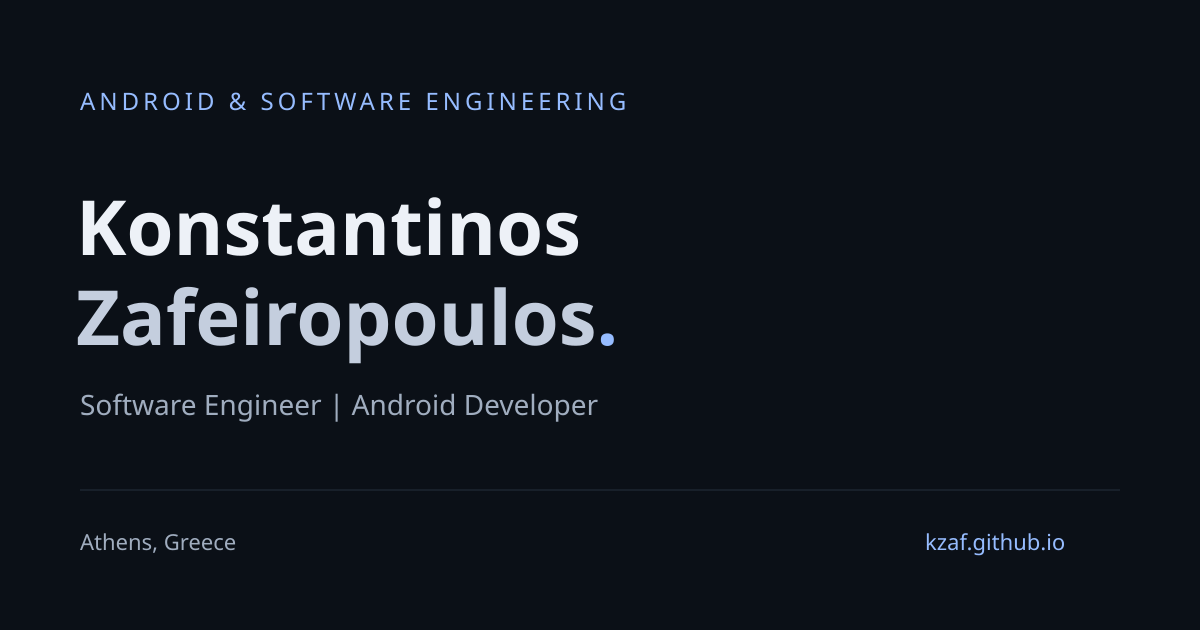
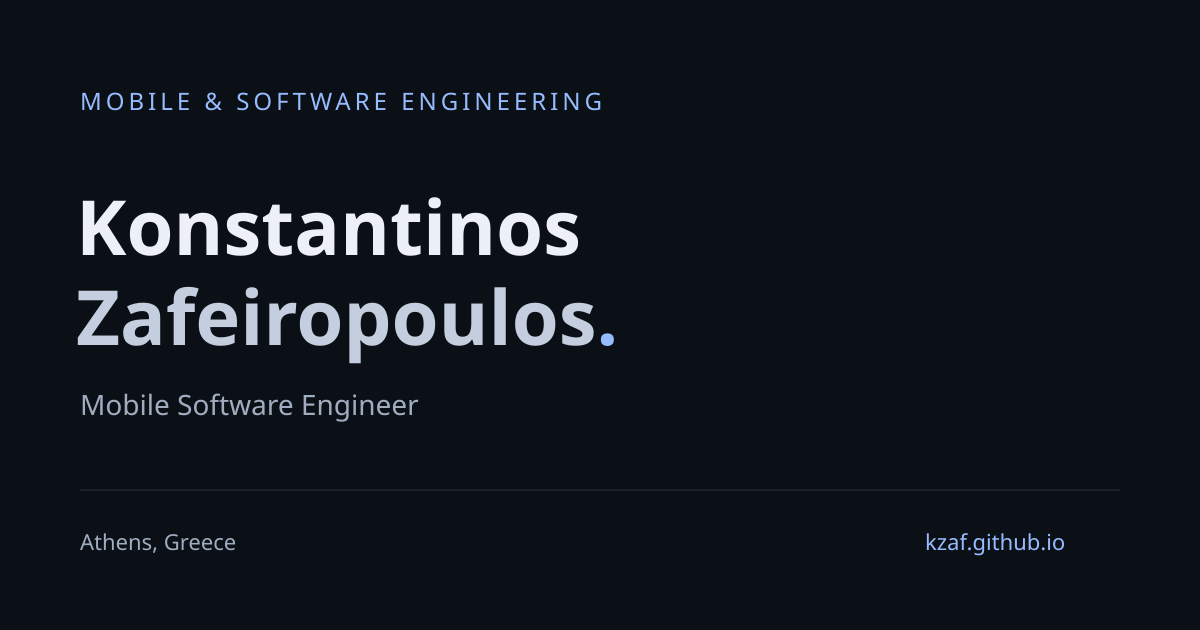
Emphasize mobile software engineering and add verified work locations

Changed region(s): [[0.0617, 0.1206, 0.5242, 0.181], [0.0617, 0.6333, 0.4933, 0.6635]]

diff --git a/index.html b/index.html
@@ -4,20 +4,20 @@
   <meta charset="utf-8">
   <meta name="viewport" content="width=device-width, initial-scale=1">
   <meta name="color-scheme" content="dark">
-  <title>Konstantinos Zafeiropoulos — Software Engineer & Android Developer</title>
-  <meta name="description" content="Software engineer and Android developer in Athens, Greece. Android Engineer at Alpha Bank. Explore Kotlin, Android and cross-platform projects.">
+  <title>Konstantinos Zafeiropoulos — Mobile Software Engineer</title>
+  <meta name="description" content="Mobile software engineer in Athens, Greece, focused on native and cross-platform applications. Android Engineer at Alpha Bank. Explore public mobile projects.">
   <link rel="canonical" href="https://kzaf.github.io/">
   <meta property="og:type" content="website">
-  <meta property="og:title" content="Konstantinos Zafeiropoulos — Software Engineer">
-  <meta property="og:description" content="Android engineering, thoughtful architecture, and software built with care. Based in Athens, Greece.">
+  <meta property="og:title" content="Konstantinos Zafeiropoulos — Mobile Software Engineer">
+  <meta property="og:description" content="Mobile experiences, thoughtful architecture, and native and cross-platform software built with care. Based in Athens, Greece.">
   <meta property="og:url" content="https://kzaf.github.io/">
   <meta property="og:image" content="https://kzaf.github.io/assets/social-card.png">
   <meta property="og:image:width" content="1200">
   <meta property="og:image:height" content="630">
-  <meta property="og:image:alt" content="Konstantinos Zafeiropoulos — Software Engineer and Android Developer, Athens, Greece">
+  <meta property="og:image:alt" content="Konstantinos Zafeiropoulos — Mobile Software Engineer, Athens, Greece">
   <meta name="twitter:card" content="summary_large_image">
-  <meta name="twitter:title" content="Konstantinos Zafeiropoulos — Software Engineer">
-  <meta name="twitter:description" content="Android engineering and cross-platform development. Athens, Greece.">
+  <meta name="twitter:title" content="Konstantinos Zafeiropoulos — Mobile Software Engineer">
+  <meta name="twitter:description" content="Native and cross-platform mobile engineering. Athens, Greece.">
   <meta name="twitter:image" content="https://kzaf.github.io/assets/social-card.png">
   <meta name="theme-color" content="#0b1017">
   <link rel="icon" href="assets/favicon.svg" type="image/svg+xml">
@@ -28,7 +28,7 @@
   <a class="skip-link" href="#main">Skip to content</a>
   <header class="site-header">
     <div class="nav-wrap">
-      <a class="brand" href="#home" aria-label="Konstantinos Zafeiropoulos, home">kz<span>.</span><span class="brand-label">SOFTWARE ENGINEER</span></a>
+      <a class="brand" href="#home" aria-label="Konstantinos Zafeiropoulos, home">kz<span>.</span><span class="brand-label">MOBILE ENGINEER</span></a>
       <button class="menu-toggle" type="button" aria-expanded="false" aria-controls="navigation" hidden>Menu <span aria-hidden="true">☰</span></button>
       <nav id="navigation" aria-label="Main navigation">
         <a href="#about">About</a><a href="#experience">Experience</a><a href="#projects">Projects</a><a href="#stack">Stack</a><a class="nav-contact" href="#contact">Let’s talk <span aria-hidden="true">↗</span></a>
@@ -38,36 +38,36 @@
   <main id="main">
     <section id="home" class="hero container" aria-labelledby="hero-title">
       <div class="hero-copy">
-        <p class="eyebrow"><span class="status-dot" aria-hidden="true"></span> ATHENS, GREECE <span class="separator">/</span> ANDROID & SOFTWARE</p>
+        <p class="eyebrow"><span class="status-dot" aria-hidden="true"></span> ATHENS, GREECE <span class="separator">/</span> MOBILE & SOFTWARE</p>
         <h1 id="hero-title">Konstantinos<br><span>Zafeiropoulos<span class="accent">.</span></span></h1>
-        <p class="hero-role">Software Engineer <span aria-hidden="true">/</span> Android Developer</p>
-        <p class="hero-intro">Building thoughtful mobile experiences.<br>From native Android to cross-platform software, I care about clean architecture and the details that make an app feel right.</p>
+        <p class="hero-role">Mobile Software Engineer</p>
+        <p class="hero-intro">Building thoughtful mobile experiences.<br>I build native and cross-platform apps with clean architecture, shared code where it makes sense, and care for the details that make mobile software feel right.</p>
         <div class="hero-actions"><a class="button primary" href="#projects">View projects <span aria-hidden="true">↘</span></a><a class="button secondary" href="#contact">Contact me <span aria-hidden="true">↗</span></a></div>
         <div class="social-links"><a href="https://github.com/kzaf">GitHub <span aria-hidden="true">↗</span></a><a href="https://www.linkedin.com/in/kzafeiropoulos/">LinkedIn <span aria-hidden="true">↗</span></a><a href="mailto:k.a.zafeiropoulos@gmail.com">Email <span aria-hidden="true">↗</span></a></div>
       </div>
-      <div class="engineering-card" aria-label="Engineering focus: Kotlin, Android, architecture and cross-platform development">
+      <div class="engineering-card" aria-label="Engineering focus: mobile experiences, Kotlin, architecture and cross-platform development">
         <div class="editor-bar"><span class="editor-dots" aria-hidden="true">● ● ●</span><span>engineer.kt</span><span aria-hidden="true">⌘</span></div>
-        <div class="code-block" aria-hidden="true"><div><i>01</i><span class="code-purple">data class</span> Engineer(</div><div><i>02</i>  <span class="code-purple">val</span> name: <span class="code-blue">String</span>,</div><div><i>03</i>  <span class="code-purple">val</span> focus: <span class="code-blue">List&lt;String&gt;</span></div><div><i>04</i>)</div><div><i>05</i>&nbsp;</div><div><i>06</i><span class="code-purple">val</span> konstantinos = Engineer(</div><div><i>07</i>  name = <span class="code-green">"Konstantinos"</span>,</div><div><i>08</i>  focus = listOf(</div><div><i>09</i>    <span class="code-green">"Android"</span>,</div><div><i>10</i>    <span class="code-green">"Clean architecture"</span>,</div><div><i>11</i>    <span class="code-green">"Cross-platform"</span></div><div><i>12</i>  )</div><div><i>13</i>)</div></div>
+        <div class="code-block" aria-hidden="true"><div><i>01</i><span class="code-purple">data class</span> Engineer(</div><div><i>02</i>  <span class="code-purple">val</span> name: <span class="code-blue">String</span>,</div><div><i>03</i>  <span class="code-purple">val</span> focus: <span class="code-blue">List&lt;String&gt;</span></div><div><i>04</i>)</div><div><i>05</i>&nbsp;</div><div><i>06</i><span class="code-purple">val</span> konstantinos = Engineer(</div><div><i>07</i>  name = <span class="code-green">"Konstantinos"</span>,</div><div><i>08</i>  focus = listOf(</div><div><i>09</i>    <span class="code-green">"Mobile experiences"</span>,</div><div><i>10</i>    <span class="code-green">"Clean architecture"</span>,</div><div><i>11</i>    <span class="code-green">"Cross-platform"</span></div><div><i>12</i>  )</div><div><i>13</i>)</div></div>
         <div class="editor-footer"><span><span class="status-dot" aria-hidden="true"></span> Kotlin</span><span>Built with intention.</span></div>
       </div>
       <div class="hero-bottom"><p>Currently <strong>Android Engineer at Alpha Bank</strong></p><a href="#about">A little more about me <span aria-hidden="true">↓</span></a></div>
     </section>
     <section id="about" class="section container about-section" aria-labelledby="about-title">
       <div><p class="eyebrow">01 / ABOUT</p><h2 id="about-title">Good software starts<br>with thoughtful engineering<span class="accent">.</span></h2></div>
-      <div class="about-copy"><p>I’m Konstantinos, a software engineer and Android developer based in Athens, Greece. I currently work as an Android Engineer at Alpha Bank, with previous experience at Almende B.V., StandBy Solutions B.V. and Softship GmbH.</p><p>My focus is native Android with Kotlin, modern UI with Jetpack Compose, and maintainable software through MVVM and Clean Architecture. I also work with Kotlin Multiplatform and enjoy exploring how shared code can support great mobile experiences.</p><div class="principles"><span>Native Android</span><span>Clean architecture</span><span>Cross-platform</span></div></div>
+      <div class="about-copy"><p>I’m Konstantinos, a mobile software engineer based in Athens, Greece. I currently work as an Android Engineer at Alpha Bank, with previous experience at Almende B.V., StandBy Solutions B.V. and Softship GmbH.</p><p>I focus on mobile experiences from interface to architecture, combining a strong foundation in native Android and Kotlin with cross-platform development. My toolkit includes Jetpack Compose and Kotlin Multiplatform, with MVVM and Clean Architecture keeping software maintainable. My public projects also explore Flutter and React Native.</p><div class="principles"><span>Mobile experiences</span><span>Clean architecture</span><span>Cross-platform</span></div></div>
     </section>
     <section id="experience" class="section container" aria-labelledby="experience-title">
-      <div class="section-heading"><div><p class="eyebrow">02 / EXPERIENCE</p><h2 id="experience-title">Where I’ve worked<span class="accent">.</span></h2></div><p>Android at the core.<br>Software engineering throughout.</p></div>
+      <div class="section-heading"><div><p class="eyebrow">02 / EXPERIENCE</p><h2 id="experience-title">Where I’ve worked<span class="accent">.</span></h2></div><p>Mobile experiences.<br>Software engineering throughout.</p></div>
       <ol class="timeline">
         <li class="current"><div class="timeline-marker" aria-hidden="true"></div><div class="company"><h3>Alpha Bank</h3><span class="current-label">CURRENT</span></div><div><h4>Android Engineer</h4><p>Android engineering · Athens, Greece</p></div></li>
-        <li><div class="timeline-marker" aria-hidden="true"></div><div class="company"><h3>Almende B.V.</h3></div><div><h4>Android & Software Development</h4><p>Android and software development.</p></div></li>
-        <li><div class="timeline-marker" aria-hidden="true"></div><div class="company"><h3>StandBy Solutions B.V.</h3></div><div><h4>Android Development</h4><p>Android application development.</p></div></li>
-        <li><div class="timeline-marker" aria-hidden="true"></div><div class="company"><h3>Softship GmbH</h3></div><div><h4>Software Development</h4><p>Software development.</p></div></li>
+        <li><div class="timeline-marker" aria-hidden="true"></div><div class="company"><h3>Almende B.V.</h3></div><div><h4>Android & Software Development</h4><p>Android and software development · Randstad, Netherlands</p></div></li>
+        <li><div class="timeline-marker" aria-hidden="true"></div><div class="company"><h3>StandBy Solutions B.V.</h3></div><div><h4>Android Development</h4><p>Android application development · Randstad, Netherlands</p></div></li>
+        <li><div class="timeline-marker" aria-hidden="true"></div><div class="company"><h3>Softship GmbH</h3></div><div><h4>Software Development</h4><p>Software development · Hamburg, Germany</p></div></li>
       </ol>
     </section>
     <section id="projects" class="section container" aria-labelledby="projects-title">
       <div class="section-heading"><div><p class="eyebrow">03 / SELECTED WORK</p><h2 id="projects-title">Ideas turned into apps<span class="accent">.</span></h2></div><a class="text-link" href="https://github.com/kzaf">Explore GitHub <span aria-hidden="true">↗</span></a></div>
-      <p class="section-intro">A curated selection of public projects, from native Android utilities to cross-platform explorations.</p>
+      <p class="section-intro">A curated selection of mobile projects, spanning native Android, Flutter and React Native.</p>
       <div class="featured-grid">
   <article class="project-card featured" aria-labelledby="project-triviapp">
     <div class="project-visual visual-triviapp"><img src="img/triviapp_icon.png" alt="Original TriviApp icon" width="96" height="96" loading="lazy" decoding="async"><span class="visual-caption">TriviApp</span><span class="visual-platform">ANDROID APPLICATION</span></div>
@@ -90,7 +90,7 @@
       <div class="project-links"><a href="https://github.com/kzaf/SimpleCalculator" aria-label="Calculator &amp; Currency Converter on GitHub">Source code <span aria-hidden="true">↗</span></a></div>
     </div>
   </article></div>
-      <div class="other-heading"><h3>More from the workbench</h3><p>Earlier Android work and cross-platform experiments.</p></div>
+      <div class="other-heading"><h3>More from the workbench</h3><p>Native apps and cross-platform experiments.</p></div>
       <div class="other-grid">
   <article class="project-card compact" aria-labelledby="project-rick-and-morty">
 
@@ -151,7 +151,7 @@
       <div class="section-heading"><div><p class="eyebrow">04 / TOOLKIT</p><h2 id="stack-title">Tools of the craft<span class="accent">.</span></h2></div><p>A focused stack for dependable software.</p></div>
       <div class="stack-grid">
         <div><span class="stack-number">01</span><h3>Languages</h3><p>Kotlin · Java · Python</p></div>
-        <div><span class="stack-number">02</span><h3>Android & Mobile</h3><p>Android SDK · Jetpack Compose · Material Design · Kotlin Multiplatform</p></div>
+        <div><span class="stack-number">02</span><h3>Mobile Development</h3><p>Android SDK · Jetpack Compose · Material Design · Kotlin Multiplatform</p></div>
         <div><span class="stack-number">03</span><h3>Architecture & Libraries</h3><p>MVVM · Clean Architecture · Coroutines · Flow · StateFlow · Hilt · Dagger · Retrofit</p></div>
         <div><span class="stack-number">04</span><h3>Backend & Databases</h3><p>REST APIs · Room · SQLite · SQL</p></div>
         <div><span class="stack-number">05</span><h3>Developer Tools</h3><p>Git · GitHub · Docker · CI/CD</p></div>

diff --git a/src/index.template.html b/src/index.template.html
@@ -4,20 +4,20 @@
   <meta charset="utf-8">
   <meta name="viewport" content="width=device-width, initial-scale=1">
   <meta name="color-scheme" content="dark">
-  <title>Konstantinos Zafeiropoulos — Software Engineer & Android Developer</title>
-  <meta name="description" content="Software engineer and Android developer in Athens, Greece. Android Engineer at Alpha Bank. Explore Kotlin, Android and cross-platform projects.">
+  <title>Konstantinos Zafeiropoulos — Mobile Software Engineer</title>
+  <meta name="description" content="Mobile software engineer in Athens, Greece, focused on native and cross-platform applications. Android Engineer at Alpha Bank. Explore public mobile projects.">
   <link rel="canonical" href="https://kzaf.github.io/">
   <meta property="og:type" content="website">
-  <meta property="og:title" content="Konstantinos Zafeiropoulos — Software Engineer">
-  <meta property="og:description" content="Android engineering, thoughtful architecture, and software built with care. Based in Athens, Greece.">
+  <meta property="og:title" content="Konstantinos Zafeiropoulos — Mobile Software Engineer">
+  <meta property="og:description" content="Mobile experiences, thoughtful architecture, and native and cross-platform software built with care. Based in Athens, Greece.">
   <meta property="og:url" content="https://kzaf.github.io/">
   <meta property="og:image" content="https://kzaf.github.io/assets/social-card.png">
   <meta property="og:image:width" content="1200">
   <meta property="og:image:height" content="630">
-  <meta property="og:image:alt" content="Konstantinos Zafeiropoulos — Software Engineer and Android Developer, Athens, Greece">
+  <meta property="og:image:alt" content="Konstantinos Zafeiropoulos — Mobile Software Engineer, Athens, Greece">
   <meta name="twitter:card" content="summary_large_image">
-  <meta name="twitter:title" content="Konstantinos Zafeiropoulos — Software Engineer">
-  <meta name="twitter:description" content="Android engineering and cross-platform development. Athens, Greece.">
+  <meta name="twitter:title" content="Konstantinos Zafeiropoulos — Mobile Software Engineer">
+  <meta name="twitter:description" content="Native and cross-platform mobile engineering. Athens, Greece.">
   <meta name="twitter:image" content="https://kzaf.github.io/assets/social-card.png">
   <meta name="theme-color" content="#0b1017">
   <link rel="icon" href="assets/favicon.svg" type="image/svg+xml">
@@ -28,7 +28,7 @@
   <a class="skip-link" href="#main">Skip to content</a>
   <header class="site-header">
     <div class="nav-wrap">
-      <a class="brand" href="#home" aria-label="Konstantinos Zafeiropoulos, home">kz<span>.</span><span class="brand-label">SOFTWARE ENGINEER</span></a>
+      <a class="brand" href="#home" aria-label="Konstantinos Zafeiropoulos, home">kz<span>.</span><span class="brand-label">MOBILE ENGINEER</span></a>
       <button class="menu-toggle" type="button" aria-expanded="false" aria-controls="navigation" hidden>Menu <span aria-hidden="true">☰</span></button>
       <nav id="navigation" aria-label="Main navigation">
         <a href="#about">About</a><a href="#experience">Experience</a><a href="#projects">Projects</a><a href="#stack">Stack</a><a class="nav-contact" href="#contact">Let’s talk <span aria-hidden="true">↗</span></a>
@@ -38,45 +38,45 @@
   <main id="main">
     <section id="home" class="hero container" aria-labelledby="hero-title">
       <div class="hero-copy">
-        <p class="eyebrow"><span class="status-dot" aria-hidden="true"></span> ATHENS, GREECE <span class="separator">/</span> ANDROID & SOFTWARE</p>
+        <p class="eyebrow"><span class="status-dot" aria-hidden="true"></span> ATHENS, GREECE <span class="separator">/</span> MOBILE & SOFTWARE</p>
         <h1 id="hero-title">Konstantinos<br><span>Zafeiropoulos<span class="accent">.</span></span></h1>
-        <p class="hero-role">Software Engineer <span aria-hidden="true">/</span> Android Developer</p>
-        <p class="hero-intro">Building thoughtful mobile experiences.<br>From native Android to cross-platform software, I care about clean architecture and the details that make an app feel right.</p>
+        <p class="hero-role">Mobile Software Engineer</p>
+        <p class="hero-intro">Building thoughtful mobile experiences.<br>I build native and cross-platform apps with clean architecture, shared code where it makes sense, and care for the details that make mobile software feel right.</p>
         <div class="hero-actions"><a class="button primary" href="#projects">View projects <span aria-hidden="true">↘</span></a><a class="button secondary" href="#contact">Contact me <span aria-hidden="true">↗</span></a></div>
         <div class="social-links"><a href="https://github.com/kzaf">GitHub <span aria-hidden="true">↗</span></a><a href="https://www.linkedin.com/in/kzafeiropoulos/">LinkedIn <span aria-hidden="true">↗</span></a><a href="mailto:k.a.zafeiropoulos@gmail.com">Email <span aria-hidden="true">↗</span></a></div>
       </div>
-      <div class="engineering-card" aria-label="Engineering focus: Kotlin, Android, architecture and cross-platform development">
+      <div class="engineering-card" aria-label="Engineering focus: mobile experiences, Kotlin, architecture and cross-platform development">
         <div class="editor-bar"><span class="editor-dots" aria-hidden="true">● ● ●</span><span>engineer.kt</span><span aria-hidden="true">⌘</span></div>
-        <div class="code-block" aria-hidden="true"><div><i>01</i><span class="code-purple">data class</span> Engineer(</div><div><i>02</i>  <span class="code-purple">val</span> name: <span class="code-blue">String</span>,</div><div><i>03</i>  <span class="code-purple">val</span> focus: <span class="code-blue">List&lt;String&gt;</span></div><div><i>04</i>)</div><div><i>05</i>&nbsp;</div><div><i>06</i><span class="code-purple">val</span> konstantinos = Engineer(</div><div><i>07</i>  name = <span class="code-green">"Konstantinos"</span>,</div><div><i>08</i>  focus = listOf(</div><div><i>09</i>    <span class="code-green">"Android"</span>,</div><div><i>10</i>    <span class="code-green">"Clean architecture"</span>,</div><div><i>11</i>    <span class="code-green">"Cross-platform"</span></div><div><i>12</i>  )</div><div><i>13</i>)</div></div>
+        <div class="code-block" aria-hidden="true"><div><i>01</i><span class="code-purple">data class</span> Engineer(</div><div><i>02</i>  <span class="code-purple">val</span> name: <span class="code-blue">String</span>,</div><div><i>03</i>  <span class="code-purple">val</span> focus: <span class="code-blue">List&lt;String&gt;</span></div><div><i>04</i>)</div><div><i>05</i>&nbsp;</div><div><i>06</i><span class="code-purple">val</span> konstantinos = Engineer(</div><div><i>07</i>  name = <span class="code-green">"Konstantinos"</span>,</div><div><i>08</i>  focus = listOf(</div><div><i>09</i>    <span class="code-green">"Mobile experiences"</span>,</div><div><i>10</i>    <span class="code-green">"Clean architecture"</span>,</div><div><i>11</i>    <span class="code-green">"Cross-platform"</span></div><div><i>12</i>  )</div><div><i>13</i>)</div></div>
         <div class="editor-footer"><span><span class="status-dot" aria-hidden="true"></span> Kotlin</span><span>Built with intention.</span></div>
       </div>
       <div class="hero-bottom"><p>Currently <strong>Android Engineer at Alpha Bank</strong></p><a href="#about">A little more about me <span aria-hidden="true">↓</span></a></div>
     </section>
     <section id="about" class="section container about-section" aria-labelledby="about-title">
       <div><p class="eyebrow">01 / ABOUT</p><h2 id="about-title">Good software starts<br>with thoughtful engineering<span class="accent">.</span></h2></div>
-      <div class="about-copy"><p>I’m Konstantinos, a software engineer and Android developer based in Athens, Greece. I currently work as an Android Engineer at Alpha Bank, with previous experience at Almende B.V., StandBy Solutions B.V. and Softship GmbH.</p><p>My focus is native Android with Kotlin, modern UI with Jetpack Compose, and maintainable software through MVVM and Clean Architecture. I also work with Kotlin Multiplatform and enjoy exploring how shared code can support great mobile experiences.</p><div class="principles"><span>Native Android</span><span>Clean architecture</span><span>Cross-platform</span></div></div>
+      <div class="about-copy"><p>I’m Konstantinos, a mobile software engineer based in Athens, Greece. I currently work as an Android Engineer at Alpha Bank, with previous experience at Almende B.V., StandBy Solutions B.V. and Softship GmbH.</p><p>I focus on mobile experiences from interface to architecture, combining a strong foundation in native Android and Kotlin with cross-platform development. My toolkit includes Jetpack Compose and Kotlin Multiplatform, with MVVM and Clean Architecture keeping software maintainable. My public projects also explore Flutter and React Native.</p><div class="principles"><span>Mobile experiences</span><span>Clean architecture</span><span>Cross-platform</span></div></div>
     </section>
     <section id="experience" class="section container" aria-labelledby="experience-title">
-      <div class="section-heading"><div><p class="eyebrow">02 / EXPERIENCE</p><h2 id="experience-title">Where I’ve worked<span class="accent">.</span></h2></div><p>Android at the core.<br>Software engineering throughout.</p></div>
+      <div class="section-heading"><div><p class="eyebrow">02 / EXPERIENCE</p><h2 id="experience-title">Where I’ve worked<span class="accent">.</span></h2></div><p>Mobile experiences.<br>Software engineering throughout.</p></div>
       <ol class="timeline">
         <li class="current"><div class="timeline-marker" aria-hidden="true"></div><div class="company"><h3>Alpha Bank</h3><span class="current-label">CURRENT</span></div><div><h4>Android Engineer</h4><p>Android engineering · Athens, Greece</p></div></li>
-        <li><div class="timeline-marker" aria-hidden="true"></div><div class="company"><h3>Almende B.V.</h3></div><div><h4>Android & Software Development</h4><p>Android and software development.</p></div></li>
-        <li><div class="timeline-marker" aria-hidden="true"></div><div class="company"><h3>StandBy Solutions B.V.</h3></div><div><h4>Android Development</h4><p>Android application development.</p></div></li>
-        <li><div class="timeline-marker" aria-hidden="true"></div><div class="company"><h3>Softship GmbH</h3></div><div><h4>Software Development</h4><p>Software development.</p></div></li>
+        <li><div class="timeline-marker" aria-hidden="true"></div><div class="company"><h3>Almende B.V.</h3></div><div><h4>Android & Software Development</h4><p>Android and software development · Randstad, Netherlands</p></div></li>
+        <li><div class="timeline-marker" aria-hidden="true"></div><div class="company"><h3>StandBy Solutions B.V.</h3></div><div><h4>Android Development</h4><p>Android application development · Randstad, Netherlands</p></div></li>
+        <li><div class="timeline-marker" aria-hidden="true"></div><div class="company"><h3>Softship GmbH</h3></div><div><h4>Software Development</h4><p>Software development · Hamburg, Germany</p></div></li>
       </ol>
     </section>
     <section id="projects" class="section container" aria-labelledby="projects-title">
       <div class="section-heading"><div><p class="eyebrow">03 / SELECTED WORK</p><h2 id="projects-title">Ideas turned into apps<span class="accent">.</span></h2></div><a class="text-link" href="https://github.com/kzaf">Explore GitHub <span aria-hidden="true">↗</span></a></div>
-      <p class="section-intro">A curated selection of public projects, from native Android utilities to cross-platform explorations.</p>
+      <p class="section-intro">A curated selection of mobile projects, spanning native Android, Flutter and React Native.</p>
       <div class="featured-grid">{{FEATURED_PROJECTS}}</div>
-      <div class="other-heading"><h3>More from the workbench</h3><p>Earlier Android work and cross-platform experiments.</p></div>
+      <div class="other-heading"><h3>More from the workbench</h3><p>Native apps and cross-platform experiments.</p></div>
       <div class="other-grid">{{OTHER_PROJECTS}}</div>
     </section>
     <section id="stack" class="section container" aria-labelledby="stack-title">
       <div class="section-heading"><div><p class="eyebrow">04 / TOOLKIT</p><h2 id="stack-title">Tools of the craft<span class="accent">.</span></h2></div><p>A focused stack for dependable software.</p></div>
       <div class="stack-grid">
         <div><span class="stack-number">01</span><h3>Languages</h3><p>Kotlin · Java · Python</p></div>
-        <div><span class="stack-number">02</span><h3>Android & Mobile</h3><p>Android SDK · Jetpack Compose · Material Design · Kotlin Multiplatform</p></div>
+        <div><span class="stack-number">02</span><h3>Mobile Development</h3><p>Android SDK · Jetpack Compose · Material Design · Kotlin Multiplatform</p></div>
         <div><span class="stack-number">03</span><h3>Architecture & Libraries</h3><p>MVVM · Clean Architecture · Coroutines · Flow · StateFlow · Hilt · Dagger · Retrofit</p></div>
         <div><span class="stack-number">04</span><h3>Backend & Databases</h3><p>REST APIs · Room · SQLite · SQL</p></div>
         <div><span class="stack-number">05</span><h3>Developer Tools</h3><p>Git · GitHub · Docker · CI/CD</p></div>

diff --git a/README.md b/README.md
@@ -1,6 +1,6 @@
 # Konstantinos Zafeiropoulos — Portfolio
 
-A lightweight, dark developer portfolio for **https://kzaf.github.io/**. Generated HTML, plain CSS, and a small accessible navigation script. No framework, backend, analytics, CDN fonts, credentials or runtime dependencies.
+A lightweight, dark mobile software engineer portfolio for **https://kzaf.github.io/**. Generated HTML, plain CSS, and a small accessible navigation script. No framework, backend, analytics, CDN fonts, credentials or runtime dependencies.
 
 ## Develop and validate
 
